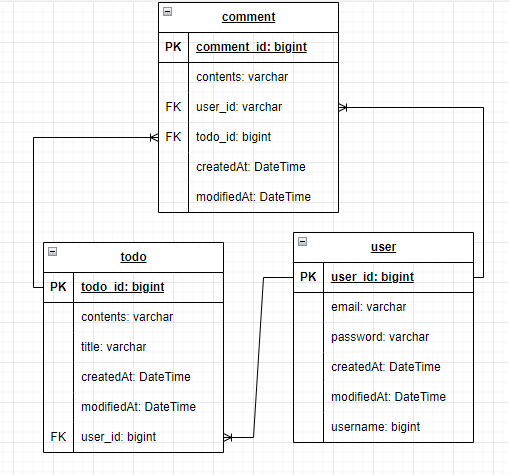
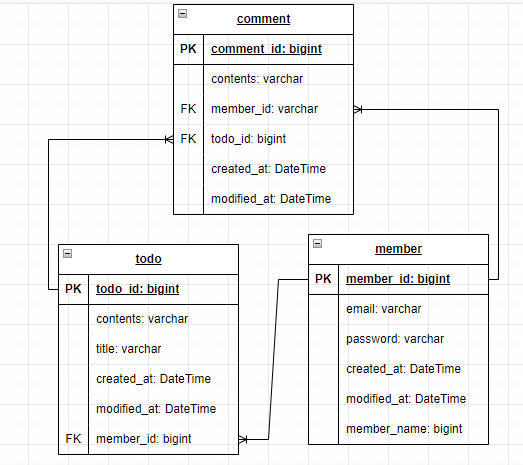
refactor: update fields in some DTOs and update README.md

Changed region(s): [[0.0589, 0.0, 0.9725, 0.9935]]

diff --git a/src/main/java/com/todo/controller/TodoController.java b/src/main/java/com/todo/controller/TodoController.java
@@ -3,7 +3,8 @@ package com.todo.controller;
 import com.todo.dto.TodoRequestDto;
 import com.todo.dto.TodoResponseDto;
 import com.todo.dto.TodoResponseWithCommentsDto;
-import com.todo.dto.UpdateContentsRequestDto;
+import com.todo.dto.UpdateTodoContentsRequestDto;
+import com.todo.entity.Member;
 import com.todo.service.TodoService;
 import lombok.RequiredArgsConstructor;
 import org.springframework.data.domain.Page;
@@ -24,8 +25,9 @@ public class TodoController {
     private final TodoService todoService;
 
     @PostMapping
-    public ResponseEntity<TodoResponseDto> save(@Validated @RequestBody TodoRequestDto requestDto) {
-        TodoResponseDto responseDto = todoService.save(requestDto.getMemberId(), requestDto.getTitle(), requestDto.getContents());
+    public ResponseEntity<TodoResponseDto> save(@Validated @RequestBody TodoRequestDto requestDto,
+                                                @SessionAttribute(name = "member") Member member) {
+        TodoResponseDto responseDto = todoService.save(member.getMemberId(), requestDto.getTitle(), requestDto.getContents());
         return new ResponseEntity<>(responseDto, HttpStatus.CREATED);
     }
 
@@ -43,8 +45,10 @@ public class TodoController {
     }
 
     @PatchMapping("/{id}")
-    public ResponseEntity<Void> updateContents(@PathVariable Long id, @Validated @RequestBody UpdateContentsRequestDto requestDto) {
-        todoService.updateContents(id, requestDto.getContents());
+    public ResponseEntity<Void> updateContents(@PathVariable Long id,
+                                               @Validated @RequestBody UpdateTodoContentsRequestDto requestDto,
+                                               @SessionAttribute(name = "member") Member member) {
+        todoService.updateContents(id, requestDto.getContents(), member);
         return new ResponseEntity<>(HttpStatus.OK);
     }
 

diff --git a/src/main/java/com/todo/dto/TodoRequestDto.java b/src/main/java/com/todo/dto/TodoRequestDto.java
@@ -7,8 +7,6 @@ import lombok.Getter;
 @Getter
 public class TodoRequestDto {
 
-    private final Long memberId;
-
     @NotBlank(message = "제목을 입력해주세요")
     @Size(max = 20)
     private final String title;
@@ -16,8 +14,7 @@ public class TodoRequestDto {
     @NotBlank(message = "내용을 입력해주세요")
     private final String contents;
 
-    public TodoRequestDto(Long memberId, String title, String contents) {
-        this.memberId = memberId;
+    public TodoRequestDto(String title, String contents) {
         this.title = title;
         this.contents = contents;
     }

diff --git a/src/main/java/com/todo/service/TodoService.java b/src/main/java/com/todo/service/TodoService.java
@@ -56,8 +56,13 @@ public class TodoService {
     }
 
     @Transactional
-    public void updateContents(Long id, String contents) {
+    public void updateContents(Long id, String contents, Member member) {
         Todo findTodo = todoRepository.findByIdOrElseThrow(id);
+
+        if (!member.getMemberId().equals(findTodo.getMember().getMemberId())) {
+            throw new ResponseStatusException(HttpStatus.UNAUTHORIZED, "권한이 없습니다");
+        }
+
         findTodo.updateContents(contents);
     }
 

diff --git a/src/main/java/com/todo/entity/Member.java b/src/main/java/com/todo/entity/Member.java
@@ -30,6 +30,9 @@ public class Member extends BaseEntity{
     @OneToMany(mappedBy = "member", cascade = CascadeType.ALL, orphanRemoval = true)
     private List<Todo> todos = new ArrayList<>();
 
+    @OneToMany(mappedBy = "member", cascade = CascadeType.ALL, orphanRemoval = true)
+    private List<Comment> comments = new ArrayList<>();
+
     @NotBlank(message = "비밀번호를 입력해주세요")
     @Size(min = 6)
     @Column(nullable = false)

diff --git a/src/main/java/com/todo/dto/UpdateTodoContentsRequestDto.java b/src/main/java/com/todo/dto/UpdateTodoContentsRequestDto.java
@@ -4,12 +4,12 @@ import jakarta.validation.constraints.NotBlank;
 import lombok.Getter;
 
 @Getter
-public class UpdateContentsRequestDto {
+public class UpdateTodoContentsRequestDto {
 
     @NotBlank(message = "내용을 입력해주세요")
     private final String contents;
 
-    public UpdateContentsRequestDto(String contents) {
+    public UpdateTodoContentsRequestDto(String contents) {
         this.contents = contents;
     }
 }

diff --git a/README.md b/README.md
@@ -1,0 +1,161 @@
+# Todo App
+할일을 작성하고 관리하는 앱<br>
+## Introduction
+할일을 작성하고 관리하는 RESTful API입니다. 기본 CRUD 기능을 포함합니다
+</br>
+
+**추가사항**
+
+- 기존의 JDBC로 데이터베이스 액세스하던 방식에서 JPA를 사용하는 방식으로 변경되었습니다
+- Member Entity 와 Comment Entity 가 추가 되었습니다
+<br>
+## Tech Stack
+- **Language**:  
+  ![Java](https://img.shields.io/badge/Java-ED8B00?style=for-the-badge&logo=openjdk&logoColor=white)
+- **Framework**:
+
+  ![Spring](https://img.shields.io/badge/Spring-6DB33F?style=for-the-badge&logo=spring&logoColor=white)  
+  ![Spring Boot](https://img.shields.io/badge/Spring%20Boot-6DB33F?style=for-the-badge&logo=spring-boot&logoColor=white)  
+  ![Lombok](https://img.shields.io/badge/Lombok-red?style=for-the-badge&logo=lombok&logoColor=white)
+
+- **Database**:  
+  ![MySQL](https://img.shields.io/badge/MySQL-005C84?style=for-the-badge&logo=mysql&logoColor=white)
+
+- **Tools**:  
+  ![Git](https://img.shields.io/badge/Git-F05033?style=for-the-badge&logo=git&logoColor=white)  
+  ![GitHub](https://img.shields.io/badge/GitHub-181717?style=for-the-badge&logo=github&logoColor=white)
+
+## Installation
+리포지토리 클론:
+```bash
+  git clone https://github.com/Seungmin-J/todo-api-jpa.git
+```
+## API 명세서
+<details>
+<summary> Todo API 명세서</summary>
+
+## **1. 일정 생성**
+| **Method** | **URL**  | **Request Body**                                                                                                                                                                 | **Response**                                                                                                                                           | **Status**                           |
+|------------|----------|----------------------------------------------------------------------------------------------------------------------------------------------------------------------------------|--------------------------------------------------------------------------------------------------------------------------------------------------------|--------------------------------------|
+| `POST`     | `/todos` | ```json { ```<br/> ```"title": "제목",```<br/> ``` "contents": "내용", ```<br/> ```"createdAt": "LocalDateTime 일정 생성 시간", ```<br/> ```"editedAt": "LocalDateTime 일정 수정 시간" ```<br/>```}``` | TodoResponseDto | CREATED : 201<br/> BAD_REQUEST : 400 |
+
+---
+
+## **2. 전체 일정 조회 / 수정일, 작성자명 기준 조회**
+| **Method** | **URL** | **Request Param**         | **Request Body** | **Response**           | **Status** |
+|------------|---------|---------------------------|------------------|------------------------|------------|
+| `GET`      | `/todos` | `page`: 페이지|  -               | Page\<TodoResponseDto> | OK : 200   |
+
+---
+
+## **3. 선택 일정 조회**
+| **Method** | **URL** | **PathVariable** | **Request Body** | **Response**    | **Status**                   |
+|------------|---------|--------------------|------------------|-----------------|------------------------------|
+| `GET`      | `/todos/{id}` | `id`: 조회할 일정의 ID | -                | TodoResponseWithCommentsDto | OK : 200<br/>NOT_FOUND : 404 |
+
+---
+
+## **4. 선택 일정의 이름 수정**
+| **Method** | **URL** | **PathVariable** | **Request Body**                                               | **Response**    | **Status** |
+|------------|---------|--------------------|----------------------------------------------------------------|-----------------|------------|
+| `PUT`      | `/todos/{id}` | `id`: 수정할 일정의 ID | ```json {``` </br> `"contents"`: `"내용"` </br> `}` | TodoResponseDto | OK : 200<br/>NOT_FOUND : 404          |
+
+---
+
+## **5. 선택 일정 삭제**
+| **Method** | **URL** | **PathVariable** | **Response** | **Status** |
+|------------|---------|-------------------|---------|------------|
+| `DELETE`   | `/todos/{id}` | `id`: 삭제할 일정의 ID    | -            | OK : 200<br/>BAD_REQUEST : 400|
+
+</details>
+
+<details>
+<summary> Member API 명세서 </summary>
+
+## **1. 회원 가입**
+| **Method** | **URL**  | **Request Body** | **Response** | **Status** |
+|------------|----------|----------------------------------------------------------------|--------------------|------------|
+| `POST`     | `/members/signup` | ```json {```<br/>```"memberName": "이름",```<br/>```"email": "이메일",```<br/>```"password": "비밀번호"```<br/>```}``` | MemberResponseDto | OK : 200<br/>BAD_REQUEST : 400 |
+
+---
+
+## **2. 회원 조회 (ID로 조회)**
+| **Method** | **URL** | **PathVariable** | **Request Body** | **Response** | **Status** |
+|------------|---------|-----------------|------------------|--------------|------------|
+| `GET`      | `/members/{id}` | `id`: 조회할 회원의 ID | - | MemberResponseDto | OK : 200<br/>NOT_FOUND : 404 |
+
+---
+
+## **3. 전체 회원 조회**
+| **Method** | **URL** | **Request Param** | **Request Body** | **Response**             | **Status** |
+|------------|---------|------------------|------------------|--------------------------|------------|
+| `GET`      | `/members` | - | - | List\<MemberResponseDto> | OK : 200 |
+
+---
+
+## **4. 회원 정보 수정**
+| **Method** | **URL** | **PathVariable** | **Request Body** | **Response** | **Status** |
+|------------|---------|-----------------|------------------|--------------|------------|
+| `PUT`      | `/members/{id}` | `id`: 수정할 회원의 ID | ```json {```<br/>```"memberName": "이름",```<br/>```"email": "이메일",```<br/>```"password": "비밀번호"```<br/>```}``` | MemberResponseDto | OK : 200<br/>NOT_FOUND : 404 |
+
+---
+
+## **5. 회원 삭제**
+| **Method** | **URL** | **PathVariable** | **Response** | **Status** |
+|------------|---------|-----------------|--------------|------------|
+| `DELETE`   | `/members/{id}` | `id`: 삭제할 회원의 ID | - | OK : 200<br/>BAD_REQUEST : 400 |
+
+---
+
+## **6. 로그인**
+| **Method** | **URL** | **Request Body** | **Response** | **Status** |
+|------------|----------|----------------------------------------------------------------|----------------|------------|
+| `POST`     | `/members/login` | ```json {```<br/>```"email": "이메일",```<br/>```"password": "비밀번호"```<br/>```}``` | `"로그인 성공"` | OK : 200<br/>UNAUTHORIZED : 401 |
+
+---
+
+## **7. 로그아웃**
+| **Method** | **URL** | **Request Body** | **Response** | **Status** |
+|------------|----------|------------------|------------------|------------|
+| `POST`     | `/members/logout` | - | `"로그아웃 되었습니다."` | OK : 200 |
+
+</details>
+
+<details>
+<summary>Comment API 명세서</summary>
+
+## **1. 댓글 생성**
+| **Method** | **URL** | **PathVariable** | **Request Body** | **Response** | **Status** |
+|------------|---------|-----------------|------------------|--------------|------------|
+| `POST`     | `/todos/{todoId}/comments` | `todoId`: 댓글을 추가할 Todo의 ID | ```json {```<br/>```"contents": "댓글 내용"```<br/>```}``` | CommentResponseDto | OK : 200<br/>UNAUTHORIZED : 401 |
+
+---
+
+## **2. 댓글 조회 (ID로 조회)**
+| **Method** | **URL** | **PathVariable** | **Request Body** | **Response** | **Status** |
+|------------|---------|-----------------|------------------|--------------|------------|
+| `GET`      | `/comments/{commentId}` | `commentId`: 조회할 댓글의 ID | - | CommentResponseDto | OK : 200<br/>NOT_FOUND : 404 |
+
+---
+
+## **3. 댓글 수정**
+| **Method** | **URL** | **PathVariable** | **Request Body** | **Response** | **Status** |
+|------------|---------|-----------------|------------------|--------------|------------|
+| `PUT`      | `/comments/{commentId}` | `commentId`: 수정할 댓글의 ID | ```json {```<br/>```"contents": "수정된 댓글 내용"```<br/>```}``` | UpdateCommentResponseDto | OK : 200<br/>UNAUTHORIZED : 401<br/>NOT_FOUND : 404 |
+
+---
+
+## **4. 댓글 삭제**
+| **Method** | **URL** | **PathVariable** | **Response** | **Status** |
+|------------|---------|-----------------|--------------|------------|
+| `DELETE`   | `/comments/{commentId}` | `commentId`: 삭제할 댓글의 ID | - | OK : 200<br/>UNAUTHORIZED : 401<br/>NOT_FOUND : 404 |
+
+</details>
+
+
+# **ERD**
+![img.png](src/main/resources/static/img.png)
+
+## Contact
+- **Email**: [seungmin103@gmail.com](mailto:seungmin103@gmail.com)
+- **GitHub**: [Seungmin-J](https://github.com/Seungmin-J)
